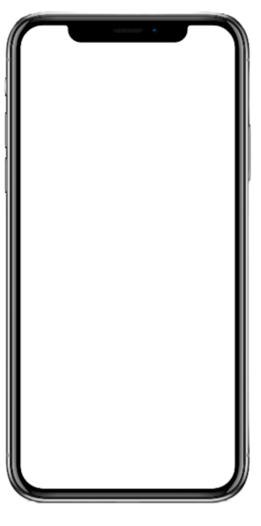
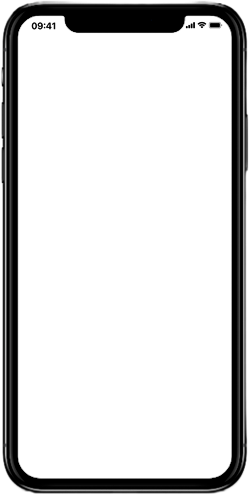
ProjectSocialMedia

Changed region(s): [[0.0, 0.0, 1.0, 1.0]]

diff --git a/index.html b/index.html
@@ -10,14 +10,15 @@
 <body>
     <main>
         <section id="telefone">
-            <iframe src="home.html" name="tela" id="tela" frameborder="0">Seu navegador não é compatível com iframes</iframe>
+            <iframe src="home.html" name="tela" id="tela" frameborder="0"></iframe>
+            <img class="iphone" src="imagens/iframe-iphone13.png" alt="">
         </section>
         <section id="redes">
-            <a href="#" target="tela"><img src="imagens/logo-home.jpg" alt="Home"></a><br>
-            <a href="#" target="tela"><img src="imagens/logo-youtube.jpg" alt=""></a><br>
-            <a href="#" target="tela"><img src="imagens/logo-github.jpg" alt=""></a><br>
-            <a href="#" target="tela"><img src="imagens/logo-twitter.jpg" alt=""></a><br>
-            <a href="#" target="tela"><img src="imagens/logo-instagram.jpg" alt=""></a>
+            <a href="home.html" target="tela"><img src="imagens/logo-home.jpg" alt="Home"></a><br>
+            <a href="youtube.html" target="tela"><img src="imagens/logo-youtube.jpg" alt=""></a><br>
+            <a href="github.html" target="tela"><img src="imagens/logo-github.jpg" alt=""></a><br>
+            <a href="linkedin.html" target="tela"><img src="imagens/linkedin.png" alt=""></a><br>
+            <a href="instagram.html" target="tela"><img src="imagens/logo-instagram.jpg" alt=""></a>
         </section>
     </main>
     

diff --git a/estilos/style.css b/estilos/style.css
@@ -25,15 +25,17 @@ section#telefone{
     left: 50%;
     transform: translate(-50%,-50%);
     height: 527px;
-    width: 311px;
-    background-image: url('../imagens/iframe-iphone13.png');
-    background-repeat: no-repeat;    
+    width: 311px;   
 }
 iframe#tela{
+    background-color: white;
     position: relative;
-    left: 0px;
-    height: 500px ;
-    width: 260px;   
+    top: 32px;
+    left: 16px;
+    height: 463px ;
+    width: 215px;
+    border-bottom-left-radius:23px ;
+    border-bottom-right-radius:23px ;  
 }
 section#redes img{
     width: 50px;
@@ -49,4 +51,9 @@ section#redes img:hover{
     border: 2px solid rgba(255, 255, 255, 0.856);
     transform: translate(-3px, -3px);
     transition: transform 0.1s;
+}
+.iphone{
+    position: relative;
+    margin-top: -450px;
+    pointer-events: none;
 }

diff --git a/estilos/social.css b/estilos/social.css
@@ -1,0 +1,29 @@
+@charset "UTF-8";
+*{
+    margin: 0px;
+    padding: 0px;
+    font-family: Arial, Helvetica, sans-serif;
+}
+body{
+    background-color: rgb(32, 32, 32);
+}
+::-webkit-scrollbar{
+    width: 0px;
+    height: 0px;
+}
+img{
+    width: 100vh;
+
+}
+a{
+   display: block; 
+   background-color: darkred;
+   padding: 20px;
+   text-align: center;
+   text-decoration: none;
+   color:white;
+   font-weight: bolder;
+}
+a:hover{
+    background-color: red;
+}

diff --git a/github.html b/github.html
@@ -1,0 +1,13 @@
+<!DOCTYPE html>
+<html lang="pt-br">
+<head>
+    <meta charset="UTF-8">
+    <meta name="viewport" content="width=device-width, initial-scale=1.0">
+    <title>GitHub</title>
+    <link rel="stylesheet" href="estilos/social.css">
+</head>
+<body>
+    <img src="imagens/tela-github.jpg" alt="YouTube"> 
+    <a href="https://github.com/Andrey-de-Freitas-Souza" target="_blank">Acesse</a>     
+</body>
+</html>

diff --git a/youtube.html b/youtube.html
@@ -1,0 +1,13 @@
+<!DOCTYPE html>
+<html lang="pt-br">
+<head>
+    <meta charset="UTF-8">
+    <meta name="viewport" content="width=device-width, initial-scale=1.0">
+    <title>YouTube</title>
+    <link rel="stylesheet" href="estilos/social.css">
+</head>
+<body>
+    <img src="imagens/tela-youtube.png" alt="YouTube"> 
+    <a href="https://www.youtube.com/@CursoemVideo" target="_blank">Acesse</a>   
+</body>
+</html>

diff --git a/linkedin.html b/linkedin.html
@@ -1,0 +1,13 @@
+<!DOCTYPE html>
+<html lang="pt-br">
+<head>
+    <meta charset="UTF-8">
+    <meta name="viewport" content="width=device-width, initial-scale=1.0">
+    <title>Linkedin</title>
+    <link rel="stylesheet" href="estilos/social.css">
+</head>
+<body>
+    <img src="" alt=""> 
+    <a href="https://www.linkedin.com/in/andrey-de-freitas-souza-91206b26a/" target="_blank">Acesse</a>     
+</body>
+</html>

diff --git a/instagram.html b/instagram.html
@@ -1,0 +1,13 @@
+<!DOCTYPE html>
+<html lang="pt-br">
+<head>
+    <meta charset="UTF-8">
+    <meta name="viewport" content="width=device-width, initial-scale=1.0">
+    <title>Instagram</title>
+    <link rel="stylesheet" href="estilos/social.css">
+</head>
+<body>
+    <img src="imagens/tela-instagram.jpg" alt=""> 
+    <a href="https://www.instagram.com/dreyy_freitas/">Acesse</a>   
+</body>
+</html>

diff --git a/home.html b/home.html
@@ -12,8 +12,7 @@
         body{
             height: 100vh;
             width: 100vw;
-            background: url('imagens/tela-home.png') no-repeat top center;
-            background-size: cover;
+            background-image: url('imagens/tela-home.jpg');
         }
     </style>
 </head>
